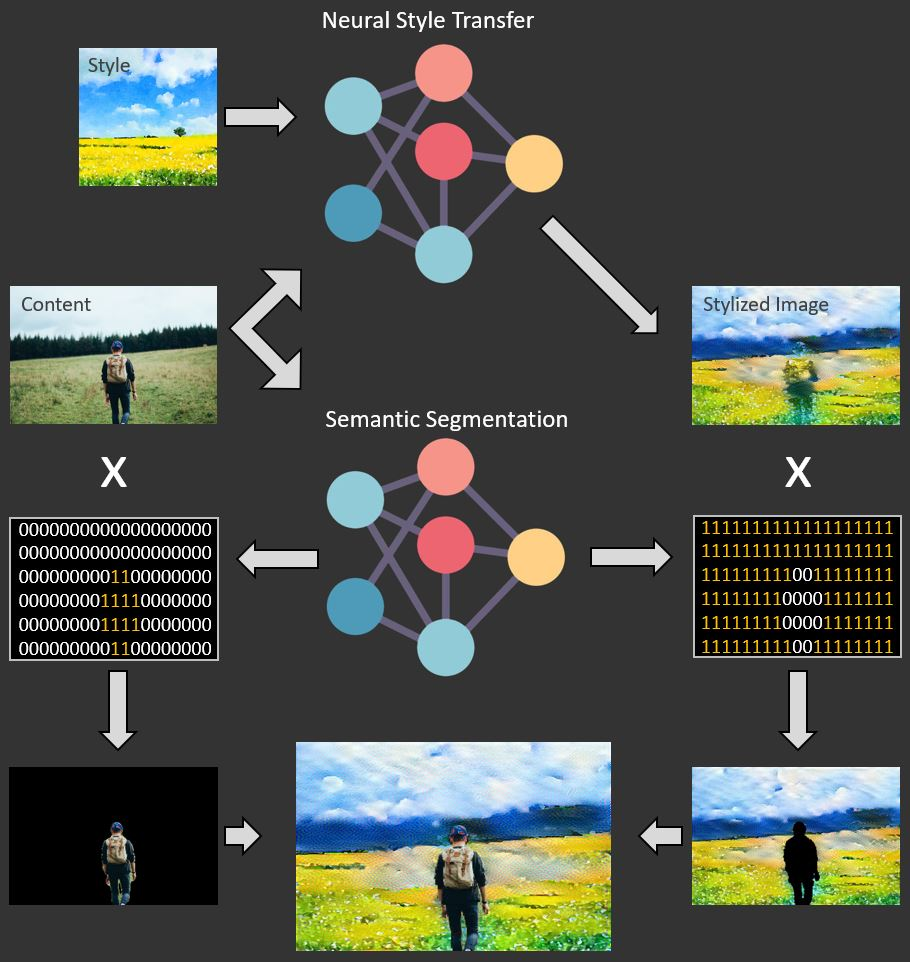
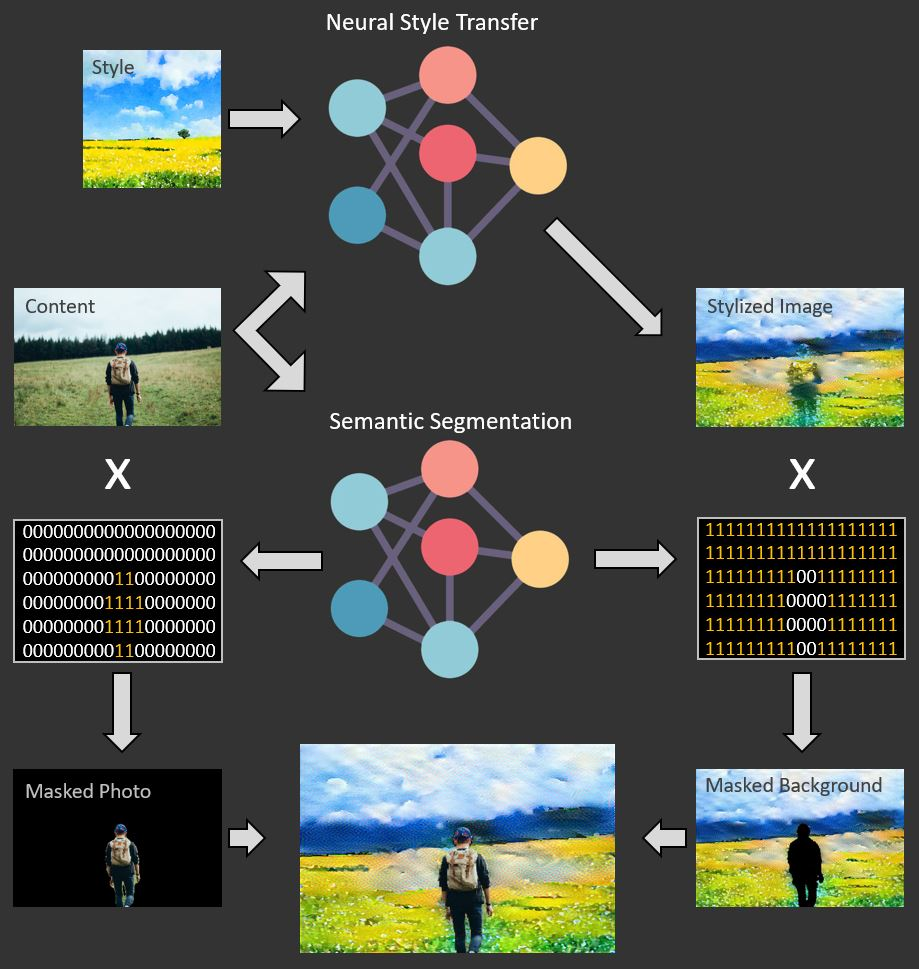
Finalize edits

diff --git a/_posts/2022-02-24-sematic-segmentation.md b/_posts/2022-02-24-sematic-segmentation.md
@@ -1,12 +1,12 @@
 ---
 layout: post
-title: Semantic Segmentation with U-Net
+title: Semantic Image Segmentation with U-Net
 author: Artan Zandian
 date: Feb 24, 2022
 excerpt: "In a second phase of my Neural Style Transfer model, I have applied Semantic Segmentation to exclude person figures from the style transfer. In this post, I will be going over the U-Net architecture and the project pipeline used to achieve this."
 ---
 
-In a second phase of my Neural Style Transfer (NST) model (see [NST project](https://artanzand.github.io//neural-style-transfer/) and [repo](https://github.com/artanzand/neural_style_transfer)), I have applied Semantic Segmentation to exclude person figures from the style transfer (see [Image Segmentation repo](https://github.com/artanzand/image_segmentation_NST) for reproducible code). In this post, I will be going over the U-Net architecture and the project pipeline used to achieve this. This project is inspired by a stylized image of a child riding a bicycle which I came across with in a very recent research paper ([Kasten et al. (2021)](https://layered-neural-atlases.github.io/)) by Adobe Research team.
+In a second phase of my Neural Style Transfer (NST) model (see [NST project](https://artanzand.github.io//neural-style-transfer/) and [repository](https://github.com/artanzand/neural_style_transfer)), I have applied Semantic Segmentation to exclude person figures from the style transfer (see [Image Segmentation repository](https://github.com/artanzand/image_segmentation_NST) for reproducible code). In this post, I will be going over the U-Net architecture and the project pipeline used to achieve this. This project is inspired by a stylized image of a child riding a bicycle which I came across with in a very recent research paper ([Kasten et al. (2021)](https://layered-neural-atlases.github.io/)) by Adobe Research team.
 
 <center><img src = "https://github.com/artanzand/artanzand.github.io/blob/master/_posts/img/Adobe_stylized.jpg?raw=True" width=600></center>
 <caption><center>[1] Cropped out figure from stylized background (Kasten et al. (2021))</center></caption>  
@@ -26,16 +26,16 @@ Our main objective for this project is to find masks which would help isolate fi
 <caption><center>Figure and Background masks</center></caption>
 <br>
 
-The below diagrams shows the overall pipeline. We have two neural networks. Neural Style Transfer is in charge of creating stylized images which has already been modeled in my [previous project](https://artanzand.github.io//neural-style-transfer/), and Semantic Segmentation network, which we will walk through in this post, will be generating tensors of zeros and ones. The outputs of Semantic segmentation will create the stylized bachground and the figure cutout when multiplied by the stylized and content image respectively. The final output is a summation of the two isolated pieces.
+The below diagrams shows the overall pipeline. We have two neural networks. Neural Style Transfer is in charge of creating stylized images which has already been modeled in my [previous project](https://artanzand.github.io//neural-style-transfer/), and Semantic Image Segmentation model, which we will walk through in this post, will be generating tensors of zeros and ones. The outputs of semantic segmentation will create the stylized background and the figure cutout when multiplied by the stylized and content images respectively. The final output is a summation of the two isolated pieces.
 <center><img src = "https://github.com/artanzand/artanzand.github.io/blob/master/_posts/img/NST_segmentation_framework.JPG?raw=True"></center>
 <caption><center>Project pipeline</center></caption>
 <br>
 
 # Semantic Image Segmentation
 
-We will be building a special type of Convolutional Neural Networks (CNN) designed for quick and precise image segmentation. The predicted result of this network will be in shape of a label for every single pixel in an image. This is referred to as pixelwise prediction in the literature. This method of image classification is called semantic image classification and plays a critical role in self-driving cars which demand a perfect understanding of the surounding environment so that they avoid other cars and people, or change lanes.
+We will be building a special type of Convolutional Neural Networks (CNN) designed for quick and precise image segmentation. The predicted result of this network will be in shape of a label for every single pixel in an image. This is referred to as pixelwise prediction in the literature. This method of image classification is called semantic image classification and plays a critical role in many tasks including self-driving cars which demand a perfect understanding of the surounding environment so that they avoid other cars and people, or change lanes.
 
-A major source of confusion is the difference between object detection and image segmentation. The similarity is that both techniques intend to answer the question: "What objects are present in this image and what are the locations of thos objects?". The main difference is that the objective of object detection techniques like [YOLO](https://arxiv.org/abs/1506.02640) is to label objects by bounding boxes whereas semantic image segmentation aims to predict a pixel precise mask for each object in the image by labeling each pixel in the image with its corresponding class.
+A major source of confusion is the difference between object detection and image segmentation. The similarity is that both techniques intend to answer the question: "What objects are present in this image and what are the locations of thos objects?". The main difference is that the objective of object detection model like [YOLO](https://arxiv.org/abs/1506.02640) is to label objects by bounding boxes whereas semantic image segmentation aims to predict a pixel precise mask for each object in the image by labeling each pixel in the image with its corresponding class.
 
 For reproducibility purposes and to allow for faster training of my model on the cloud, I have opted for a smaller-size [dataset](https://www.kaggle.com/nikhilroxtomar/person-segmentation) that would only label person figures. The technique can, however, be generalized to image segmentation for multiple classes, and in my post I will be referring to the respective changes in the general code and concept.
 
@@ -43,37 +43,37 @@ For reproducibility purposes and to allow for faster training of my model on the
 
 # U-Net Architecture
 
-U-Net, named after its U-shape, was originally created in 2015 for biomedical image segmentation (Ronneberger et al. (2015) [paper](https://arxiv.org/abs/1505.04597)), but soon became very popular for other semantic segmentation tasks. Note that due to computational constraints I have reduced the number of filters and steps used in the original paper.
+U-Net, named after its U-shape, was originally created for biomedical image segmentation (Ronneberger et al. (2015) [paper](https://arxiv.org/abs/1505.04597)), but soon became very popular for other semantic segmentation tasks. Note that due to computational constraints I have reduced the number of filters and steps used in the original paper.
 <center><img src = "https://github.com/artanzand/artanzand.github.io/blob/master/_posts/img/U-net.JPG?raw=True"></center>
 <caption><center>U-Net Architecture used for this project</center></caption>
 <br>
 
-U-Net is based on the Fully Convolutional Network (FCN) which is comprised of two main sections; an encoder section which downsamples the input image (similar to a typical CNN network), and a decoder section which replaces the dense layer found in the output layer of CNN with transposed convolution layer (see diagram below on how transposed convolution works) that upsample the feature map back to the size of the original input image. A major downfall of an FCN is that the final feature layer of the FCN suffers from information loss due to excessive downsampling which are required for inference. Solving this issue is necessary because the dense layers destroy spatial information which is the most essential part of image segmentation tasks.  
+U-Net is based on the Fully Convolutional Network (FCN) which is comprised of two main sections; an encoder section which downsamples the input image (similar to a typical CNN network), and a decoder section which replaces the dense output layer of CNN with transposed convolutional layer that upsample the feature map back to the size of the original input image. See the diagram below on how transposed convolution works. A major downfall of an FCN is that the final feature layer of the FCN suffers from information loss due to excessive downsampling which are required for inference. Solving this issue is necessary because the dense layers destroy spatial information which is the most essential part of an image segmentation task.  
 
 <center><img src = "https://github.com/artanzand/artanzand.github.io/blob/master/_posts/img/transpose_conv.gif?raw=True"></center>
 <caption><center>[6] Transpose Convolution</center></caption>  
 <br>
 
-U-Net improves on the FCN by introducing skip connections shown by green arrows in the U-Net diagram which are critical for preserving the spatial information. Further to that and instead of one transposed convolution at the end of the network, U-Net uses a matching number of transposed convolutions for upsampling (decoding) to those used for downsampling (encoding). This will map the encoded image back up to the original input image size. The role of skip connections is to retain information that would otherwise become lost during encoding. Skip connections send information to every upsampling layer in the decoder from the corresponding downsampling layer in the encoder, capturing finer information while also reducing computation cost.
+U-Net improves FCN by introducing skip connections shown by green arrows in the U-Net diagram which are critical for preserving the spatial information. Further to that and instead of one transposed convolution at the end of the network, U-Net uses a matching number of transposed convolutions for upsampling (decoding) to those used for downsampling (encoding). This will map the encoded image back up to the original input image size. The role of skip connections is to retain information that would otherwise become lost during encoding. Skip connections send information to every upsampling layer in the decoder from the corresponding downsampling layer in the encoder, capturing finer information while also reducing computation cost.
 
 To build the U-Net model we need two blocks. Each step in the U-Net diagram is considered a block.
 
-1. Encoder block - A series of convolution layers followed by maxpooling
-2. Decoder block - A transposed convolution layer followed by convolution layers  
+1. Encoder block - A series of convolutional layers followed by maxpooling
+2. Decoder block - A transposed convolutional layer followed by convolutional layers  
 <br>
 
 ## Encoder Block
 
 <center><img src = "https://github.com/artanzand/artanzand.github.io/blob/master/_posts/img/encoder_block.JPG?raw=True" width=400></center>
 
-Each decoder block is comprised of two Convolution layers with ReLU activations. As per the original [paper](https://arxiv.org/abs/1505.04597)'s instructions we will apply Dropout, and MaxPooling to some of the decoder blocks, specifically to the last two blocks of the downsampling, and our function will, therefore, need to allow for that.
+Each encoder block is comprised of two convolutional layers with ReLU activations. As per the original [paper](https://arxiv.org/abs/1505.04597)'s instructions we will apply Dropout, and MaxPooling to some of the encoder blocks, specifically to the last two blocks of the downsampling section, and our function will, therefore, need to allow for that.
 
 The function will return two outputs:
 
-- next_layer: The tensor that will go into the next block.
-- skip_connection: The tensor that will go into the matching decoding block.
+- `next_layer`: The tensor that will go into the next block.
+- `skip_connection`: The tensor that will go into the matching decoder block.
 
-Here is a reduced version of the encoder block in Tensorflow. I am initializing my kernels with [he_normal](https://www.tensorflow.org/api_docs/python/tf/keras/initializers/HeNormal). Also note that when `max_pooling` is set to `True`, the next_layer will be the output of the MaxPooling layer, but the skip_connection will be the output of the previously applied layer. Else, both results will be identical. `max_pooling` will be set to false in the fifth encoder block where the resultant tensor is directly fed into the decoder block.
+Here is a reduced version of the encoder block in Tensorflow. I am initializing my kernels with [he_normal](https://www.tensorflow.org/api_docs/python/tf/keras/initializers/HeNormal). Also note that when `max_pooling` is set to `True`, the next_layer will be the output of the MaxPooling layer, but the skip_connection will be the output of the previously applied layer. Else, both results will be identical. `max_pooling` will be set to `False` in the fifth encoder block where the resultant tensor is directly fed into the decoder block.
 
 ```python
 def encoder_block(inputs=None, n_filters=32, dropout=0, max_pooling=True):
@@ -117,10 +117,10 @@ def encoder_block(inputs=None, n_filters=32, dropout=0, max_pooling=True):
 
 The decoder block takes in two arguments:  
 
-- expansive_input - The input tensor from the previous layer, and;
-- contractive_input - the input tensor from the previous skip layer in the encoder section  
+- `expansive_input` - The input tensor from the previous layer, and;
+- `contractive_input` - the input tensor from the previous skip layer in the encoder section  
 
-The number of filters will be the same as each corresponding encoder block. We will apply transpose convolution on the expansive_input, or the input tensor from the previous layer. We will then merge the output of the transpose convolution layer with contractive_input using the `tf.concatenate()` function to create the skip connection. Skip connection is the step that allows for the capture of finer information from the earlier layers of the network where shape details were still present. We will apply two convolution layers at the end of this block.
+The number of filters will be the same as each corresponding encoder block. We will first apply transpose convolution on the `expansive_input`(the input tensor from the previous layer). We will then merge the output of the transpose convolutional layer with `contractive_input` using the `tf.concatenate()` function to create the skip connection. Skip connection is the step that allows for the capture of finer information from the earlier layers of the network where shape details were still present. We will apply two convolutional layers at the end of this block.
 
 ```python
 def decoder_block(expansive_input, contractive_input, n_filters=32):
@@ -154,15 +154,15 @@ def decoder_block(expansive_input, contractive_input, n_filters=32):
 
 ## Building the Model
 
-This is where the model blocks are put together by chaining encoders, connections, and decoders. We will need to identify the number of classes (`n_classes`) of the final output image. Connecting the inputs and outputs of each layer is not hard if we follow the U-Net diagram, but let's step out for a short minute to clarify how what the number of classes should be and the desired shape of an output tensor.
+This is where the model blocks are put together by chaining encoders, connections, and decoders. We will need to identify the number of classes (`n_classes`) of the final output image. Connecting the inputs and outputs of each layer is not hard if we follow the U-Net diagram, but let's step out for a short minute to clarify what the number of classes should be and the desired shape of an output tensor.
 
-In semantic segmentation, we need as many masks as we have object classes.Classes in the output tensor are defined by channels. For example, if we have 4 classes, we will have an output with the same height and width as the input image, but with 4 channels with values of each cell in a channel representing the probabilities of that pixel belonging to that channel. The intuition is that when predicting we will get the `argmax()` of the pixels in the last dimension of the tensor (the four channels in our example) to come up with the final prediction for that pixel. For the case of my model because I was only interested in identifying the pixels containing human figures, I selected a dataset that would satisfy my objective. Therefore, I will have only one class (output channel) in my model.  
+In semantic segmentation, we need as many masks as we have object classes. Classes in the output tensor are defined by channels. For example, if we have 4 classes, we will have an output with the same height and width as the input image, but with 4 channels with values of each cell in a channel representing the probabilities of that pixel belonging to that channel. The intuition is that when predicting we will get the `argmax()` of the pixels in the last dimension of the tensor (the dimesion with the four channels in our example) to come up with the final prediction for that pixel. For the case of my model because I was only interested in identifying the pixels containing human figures, I selected a dataset that would satisfy my objective. Therefore, I will have only one class (output channel) in my model.  
 
 channel images
 
-Now let's go back to the model. The function is comprised of two sections. The first half is where we use the encoder_block, and chain the first output of each block to the next one. We take a note of the second output of the encoder_block for later in the Decoder section. As per the paper recommendations we will be doubling the number of filters while MaxPooling in each block will divide the height and width by two. On the fifth block, also known as the Bottleneck (for obvious reasones!), we will be turning the MaxPooling off since we will be entering the second section where we need to upsample.  
+Now let's go back to the model. The function is comprised of two sections. The first half is the encoding section where we use the `encoder_block`, and chain the first output of each block to the next one. We take a note of the second output of the `encoder_block` for later use in the decoder section. As per the paper recommendations we will be doubling the number of filters while MaxPooling in each block will divide the height and width by two. On the fifth block, also known as the Bottleneck (for obvious reasons!), we will be turning MaxPooling off since we will be entering the second section where we need to upsample.  
 
-Decoder blocks in the second section will be expanding the size of the image. This time we will chain the expanded output of the previous block with the second output from the corresponding encoder block. At each step, we will half the number of filter. `conv9` is a convolution layer with he_normal initializer. At this stage, we will have an output with exactly the same shape as the input. Finally, on the output layer `conv10` we will use a convolutional layer with a kernel size of 1 to bring the number of channels to our desired number of classes (1 in case of this project).
+Decoder blocks in the second section will be expanding the size of the image. This time we will chain the expanded output of the previous block with the second output from the corresponding encoder block. At each step, we will half the number of filter. `conv9` is a convolutional layer with `he_normal` initializer. At this stage, we will have an output with exactly the same shape as the input. Finally, on the output layer `conv10` we will use a convolutional layer with a kernel size of 1 to bring the number of channels to our desired number of classes (1 in case of this project).
 
 ```python
 def U_Net(input_size=(320, 320, 3), n_filters=32, n_classes=1):
@@ -209,7 +209,7 @@ def U_Net(input_size=(320, 320, 3), n_filters=32, n_classes=1):
     return model
 ```
 
-Next, we will instantiate the model and compile it. Adam is the optimizer of choice, but other optimizers work as well. For the loss function we use BinaryCrossentropy (since we have person(1) or not person(0)), and accuracy is our metric. Extra details about loading the data and fitting the model can be found in `train.py` in this [repo](https://github.com/artanzand/image_segmentation_NST/blob/main/src/train.py).
+Next, we will instantiate the model and compile it. Adam is the optimizer of choice, but other optimizers work as well. For the loss function we use `BinaryCrossentropy` (since we have two classes of person as 1 or not person as 0), and set accuracy as our metric. Extra details about loading the data and fitting the model can be found in `train.py` in the [project repository](https://github.com/artanzand/image_segmentation_NST/blob/main/src/train.py).
 
 ```python
 unet = U_Net()
@@ -232,16 +232,16 @@ unet.compile(
 
 <br>
 
-# Neural Style Transfer + Segmentation
+# Neural Style Transfer + Image Segmentation
 
 Now that we know how to get the ingredients i.e. the figure mask from Image Segmentation and the stylized image from Neural Style Transfer, it is time to put them together to create our improved generated image. The diagram below is our roadmap.
 
 <center><img src = "https://github.com/artanzand/artanzand.github.io/blob/master/_posts/img/semantic_diagram.JPG?raw=True"></center>
 <caption><center>Semantic Image Segmentation pipeline</center></caption>
 
-This is the code I have added to the main function of `stylize.py` in the Neural Style Transfer [project](https://github.com/artanzand/neural_style_transfer/blob/main/stylize.py) to combine the results of the two. From prior to this code, we have computed and already have the variable `generated_image` as our output from NST. This is the same as the "Stylize Image" from the diagram above. Calling the `predict()` function on the content image will give the masked photo which is the multiplication of the content image with the predicted mask (0's and 1's). The reason I defined the output my predict function is more of a logistics problem as it is not possible to resize an integer tensor (the output mask is of shape 320x320).
+Below is the code I have added to the main function of `stylize.py` in the original Neural Style Transfer (NST) [project](https://github.com/artanzand/neural_style_transfer/blob/main/stylize.py) to combine the results of the two. From prior to this code, we have computed and already have the variable `generated_image` as our output from NST. This is the same as the "Stylized Image" in the diagram above. Calling the `predict()` function on the content image will generate the masked photo which is the multiplication of the content image with the predicted mask (0's and 1's). The reason that I defined the masked photo as an output of my `predict()` function rather the mask itself is more of a logistics problem as it is not possible to resize an integer tensor (the output mask is of shape 320x320).
 
-Instead of the 1 - Y function mentioned earlier to acquire the background mask I am filtering zeros of the masked_photo. The nice thing about this is that I don't need any further resizing to bring my background mask to the same shape as the generated_image (Stylized Image). Now that we have the background mask, all we need to do is mutliplying it by the generate_image. And to wrap it up, we will sum the two masked_images to create the final output.
+Instead of the 1 - Y function mentioned earlier, to acquire the `background_mask` I am filtering zeros of the `masked_photo`. The nice thing about this is that I don't need any further resizing to bring my background mask to the same shape as the `generated_image` (Stylized Image). Now that we have the `background_mask`, all we need to do is mutliplying it by the `generated_image` to get the `masked_background`. And to wrap it up, we will sum up the two masked images to create the final output of the pipeline.
 
 ```python
 def main(content, style, save, similarity="balanced", epochs=500):
@@ -280,8 +280,8 @@ def main(content, style, save, similarity="balanced", epochs=500):
 
 This is the animation of what the final product looks like. Although I am getting my desired output, I can see two further improvements for the project.
 
-1. Add more classes: It would be nice if the image segmentation could classify more objects. In the case of the initial inspiration image for example, it would have been nice if the user could select human and bicycle to be filtered out from the neural style transfer. This would be an easy improvement with changes in literally two words in the code (updating n_classes and changing the loss function to `SparseCategoricalCrossentropy()`) as mentioned in the previous section.  
-2. Reorder the pipeline: The way I am solving this problem is not the most computationaly efficient way. My current pipeline is that I am creating the stylized background, and then I apply the mask calculated from my segmentation model. It would have been computationally more efficient if I generated the mask first, applied the mask on the original image to freeze the human figure pixels, and then do the style transfer. The computational cost saving would be proporionate to the the count / size of human figures in a certain image.
+1. Add more classes: It would be nice if the image segmentation could classify more objects. In the case of the initial inspiration image for example, it would have been desired if the user had the option to filter out human, bicycle or both from the neural style transfer. This would be an easy improvement with changes in literally two words in the code (updating n_classes and changing the loss function to `SparseCategoricalCrossentropy()`) as mentioned in the previous section. This will require a longer runtime on GPU and also a larger memory size.
+2. Reorder the pipeline: The way I am solving this problem is not the most computationaly efficient way. In my current pipeline I am creating the stylized background, and then I apply the mask calculated from my image segmentation model. It would have been computationally more efficient if I generated the mask first, applied the mask on the original image to freeze the human figure pixels, and then do the style transfer only on the background image. The computational cost saving would be proporionate to the the count / size of human figures in a certain image.
 <br>
 
 ## References
@@ -289,6 +289,6 @@ This is the animation of what the final product looks like. Although I am gettin
 [1] Kasten, Yoni, et al. "Layered neural atlases for consistent video editing." ACM Transactions on Graphics (TOG) 40.6 (2021): [link to paper](https://arxiv.org/pdf/2109.11418.pdf)  
 [2] Ronneberger, Olaf, Philipp Fischer, and Thomas Brox. "U-net: Convolutional networks for biomedical image segmentation." International Conference on Medical image computing and computer-assisted intervention. Springer, Cham, 2015.: [link to paper](https://arxiv.org/abs/1505.04597)  
 [3] [DeepLearning.ai](https://www.deeplearning.ai/) Deep Learning Specialization lecture notes  
-[4] Image Segmentation with DeepLabV3Plus: [link to repo](https://github.com/nikhilroxtomar/Human-Image-Segmentation-with-DeepLabV3Plus-in-TensorFlow)
+[4] Image Segmentation with DeepLabV3Plus: [link to repository](https://github.com/nikhilroxtomar/Human-Image-Segmentation-with-DeepLabV3Plus-in-TensorFlow)  
 [5] Style image [reference](https://androidphototips.com/5-best-painting-apps-that-turn-your-iphone-photos-into-paintings/)  
-[6] Transpose Convolution ([image reference](https://towardsdatascience.com/review-fcn-semantic-segmentation-eb8c9b50d2d1))
+[6] Transpose Convolution [image reference](https://towardsdatascience.com/review-fcn-semantic-segmentation-eb8c9b50d2d1)
